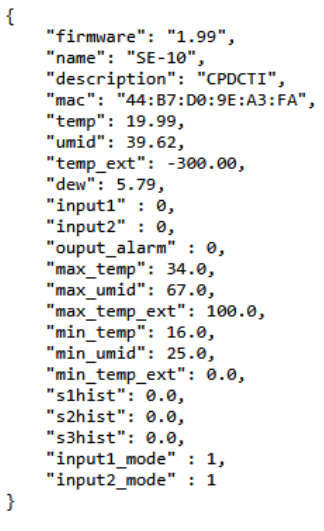
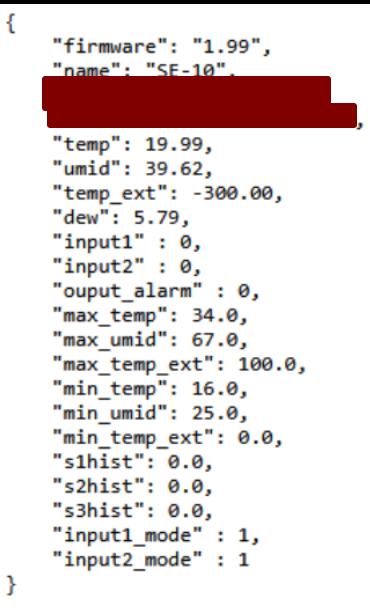
Informações de para captura formato json

Changed region(s): [[0.0, 0.0, 1.0, 0.9341], [0.0, 0.9341, 0.0617, 0.9944]]

diff --git a/_web/example_data.php b/_web/example_data.php
@@ -6,28 +6,9 @@
     <title>Device Data</title>
 </head>
 <body>
-    <h1>Device Information</h1>
-    <p><strong>Firmware:</strong> 1.99</p>
-    <p><strong>Name:</strong> SE-10</p>
-    <p><strong>Description:</strong> CPDCTI</p>
-    <p><strong>MAC:</strong> 44:B7:D0:9E:A3:FA</p>
-    <p><strong>Temperature:</strong> 19.99</p>
-    <p><strong>Humidity:</strong> 39.62</p>
-    <p><strong>External Temperature:</strong> -300.00</p>
-    <p><strong>Dew Point:</strong> 5.79</p>
-    <p><strong>Input 1:</strong> 0</p>
-    <p><strong>Input 2:</strong> 0</p>
-    <p><strong>Output Alarm:</strong> 0</p>
-    <p><strong>Max Temperature:</strong> 34.0</p>
-    <p><strong>Max Humidity:</strong> 67.0</p>
-    <p><strong>Max External Temperature:</strong> 100.0</p>
-    <p><strong>Min Temperature:</strong> 16.0</p>
-    <p><strong>Min Humidity:</strong> 25.0</p>
-    <p><strong>Min External Temperature:</strong> 0.0</p>
-    <p><strong>S1 History:</strong> 0.0</p>
-    <p><strong>S2 History:</strong> 0.0</p>
-    <p><strong>S3 History:</strong> 0.0</p>
-    <p><strong>Input 1 Mode:</strong> 1</p>
-    <p><strong>Input 2 Mode:</strong> 1</p>
+    {
+    <p>"temp": 19.99,</p>
+    <p>"umi": 39.62</p>
+    }
 </body>
 </html>
